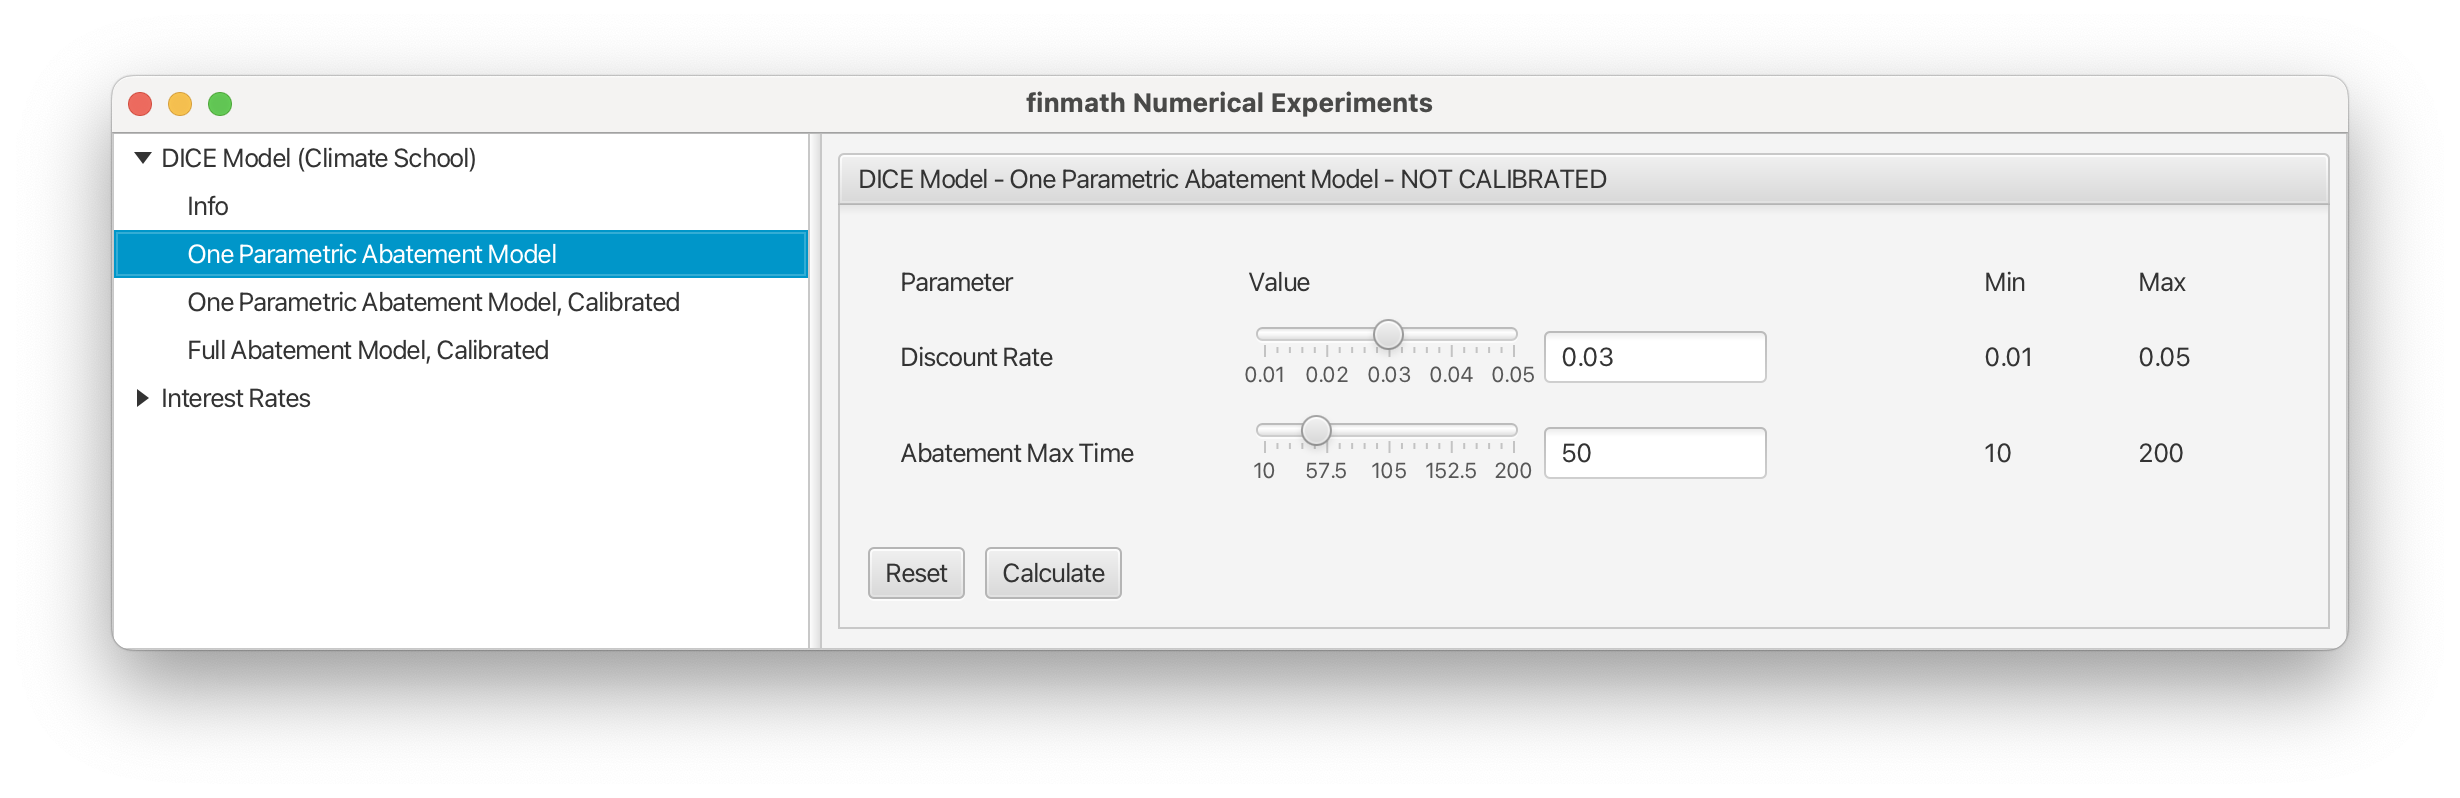
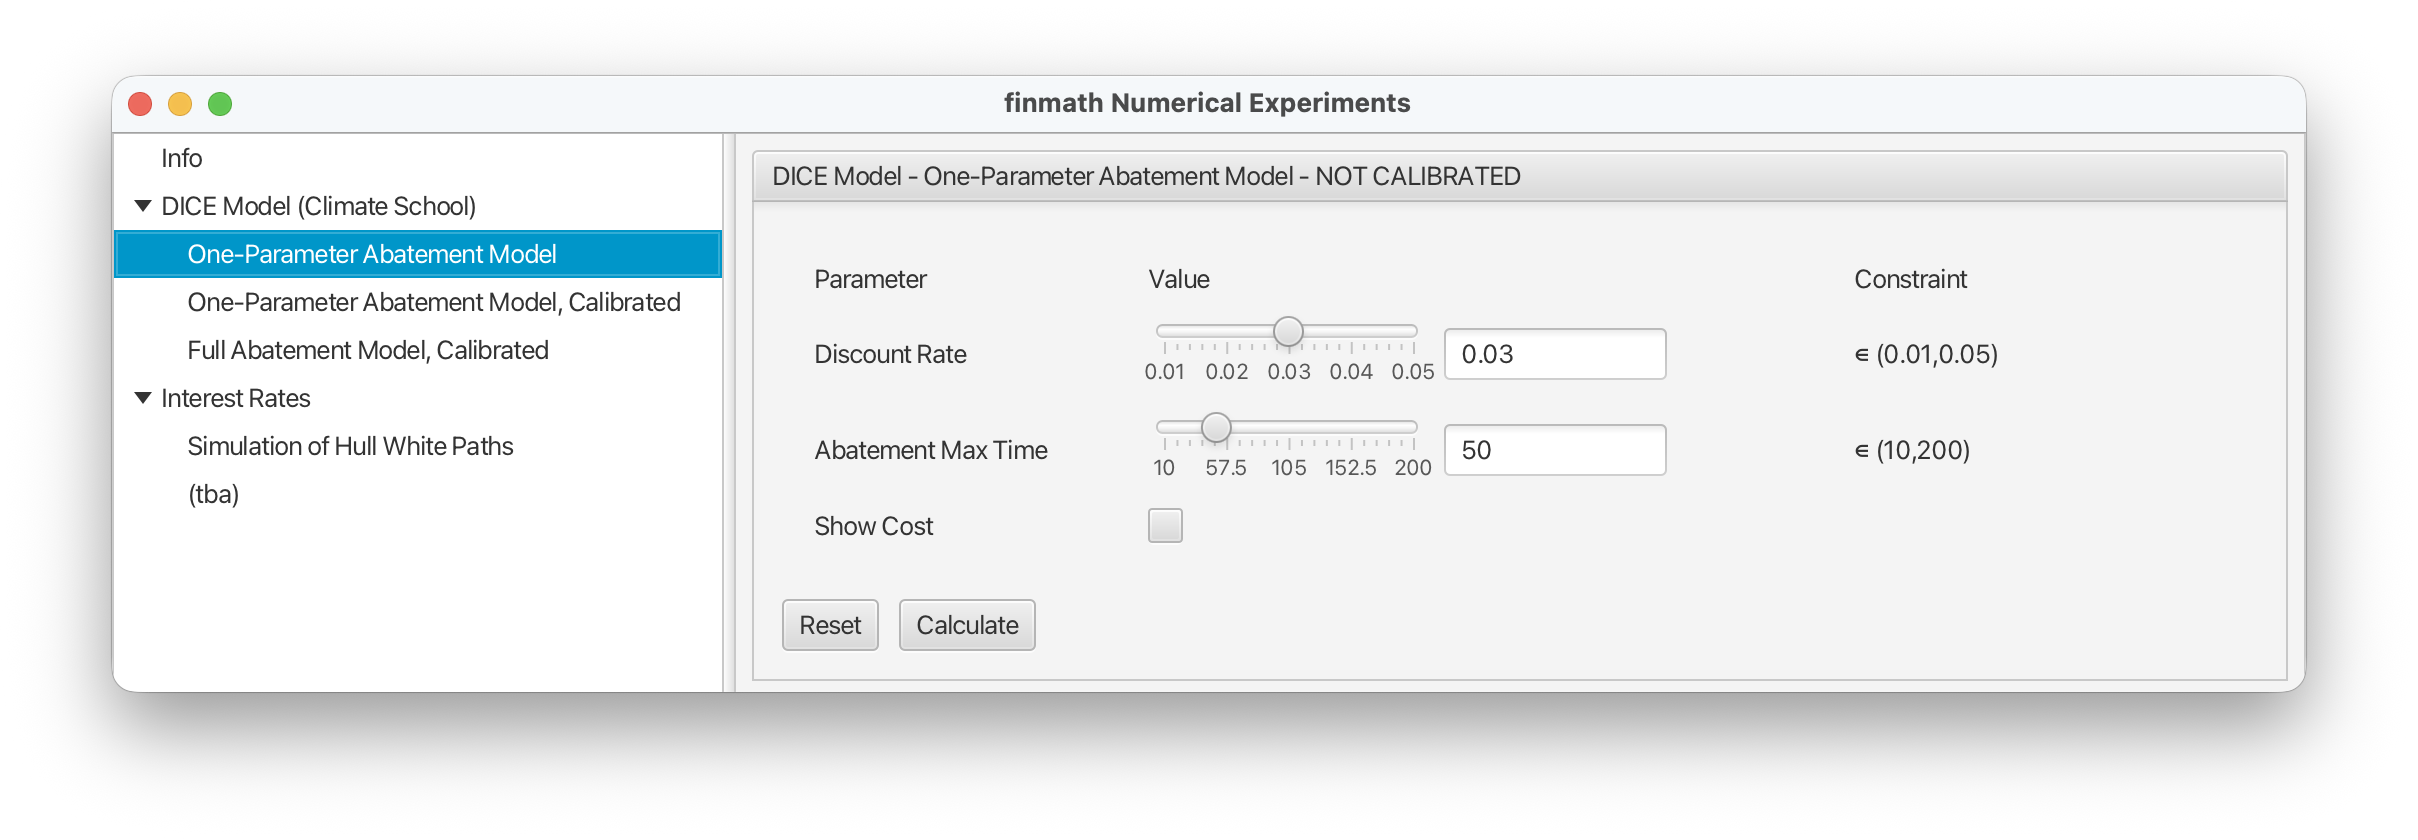
Added screenshot.

diff --git a/README.md b/README.md
@@ -43,7 +43,15 @@ We provide a binary version of the experiments for
 
 on the [Climate School Exercises Releases Page](https://github.com/finmath/climate-school-exercises/releases/latest).
 
-<p align="center"><img src="doc/images/finmath-climate-school-experiments.png" alt="" height="300"/></p>
+<p align="center">
+  <img src="doc/images/finmath-climate-school-experiments.png" alt="Climate School Exercises interface with DICE model controls" height="300"/>
+</p>
+<p align="center"><em>Choose an experiment and configure its parameters.</em></p>
+
+<p align="center">
+  <img src="doc/images/finmath-climate-school-experiments-screenshot.png" alt="Climate School Exercises showing DICE model charts for abatement, emissions, carbon concentration, temperature, GDP, and discounted cost" width="900"/>
+</p>
+<p align="center"><em>Example output from the full-abatement experiment.</em></p>
 
 ### Installation and Running on Windows
 
@@ -58,10 +66,6 @@ on the [Climate School Exercises Releases Page](https://github.com/finmath/clima
 - Open the downloaded `.dmg` file (double-click the file).
 - Move `Climate School Exercises` to the Applications folder and open it.
 - Confirm the standard first-launch prompt for an application downloaded from the Internet.
-
-If macOS blocks an older unsigned release, first try to open the application once. Then open **System Settings → Privacy & Security**, scroll to the Security section, click **Open Anyway**, authenticate, and confirm. The button is available for about one hour after the failed launch. On macOS 14 or older, Control-clicking the application and selecting **Open** may also work; macOS 15 and newer require the Privacy & Security route.
-
-Only override this protection for a release downloaded from this repository. Do not override a warning that says the application will damage your computer.
 
 ### Signing macOS Releases (Maintainers)
 
